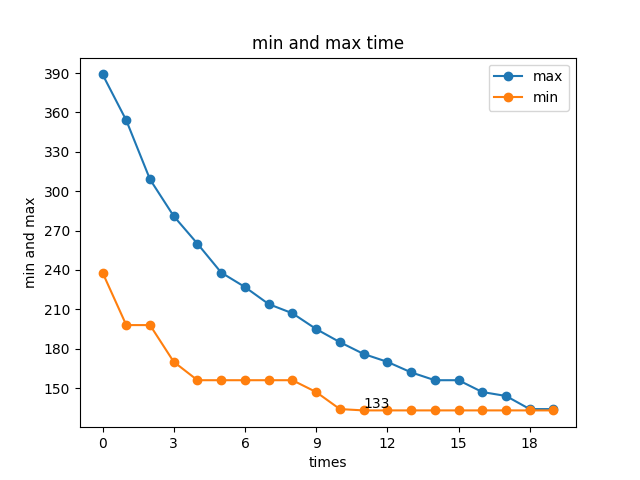
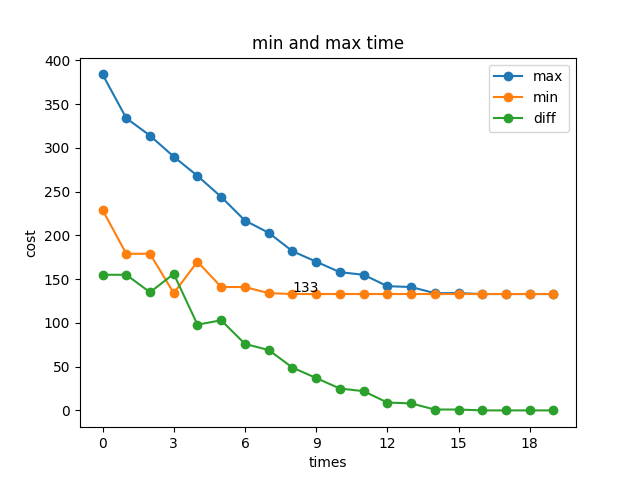
change figure ylable name

diff --git a/visual_data.py b/visual_data.py
@@ -32,9 +32,10 @@ class visual_data():
     def show_min_max(self, i: int):
         plt.plot(self.data['max'], label='max', marker='o')
         plt.plot(self.data['min'], label='min', marker='o')
+        plt.plot(self.data['dif'], label='diff', marker='o')
         plt.title('min and max time')
         plt.xlabel('times')
-        plt.ylabel('min and max')                                
+        plt.ylabel('cost')                                
         plt.gca().xaxis.set_major_locator(MaxNLocator(integer=True))
         plt.gca().yaxis.set_major_locator(MaxNLocator(integer=True))
         plt.legend()

diff --git a/ga.py b/ga.py
@@ -60,6 +60,7 @@ class genetic_algorithm():
                 self.bestSol = self.chromosome[i]
         self.plt.append('min', mn)
         self.plt.append('max', mx)
+        self.plt.append('dif', mx - mn)
 
     def compute_fitness(self):
         self.fitness = np.zeros(np.size(self.chromosome, 0), dtype=int)
